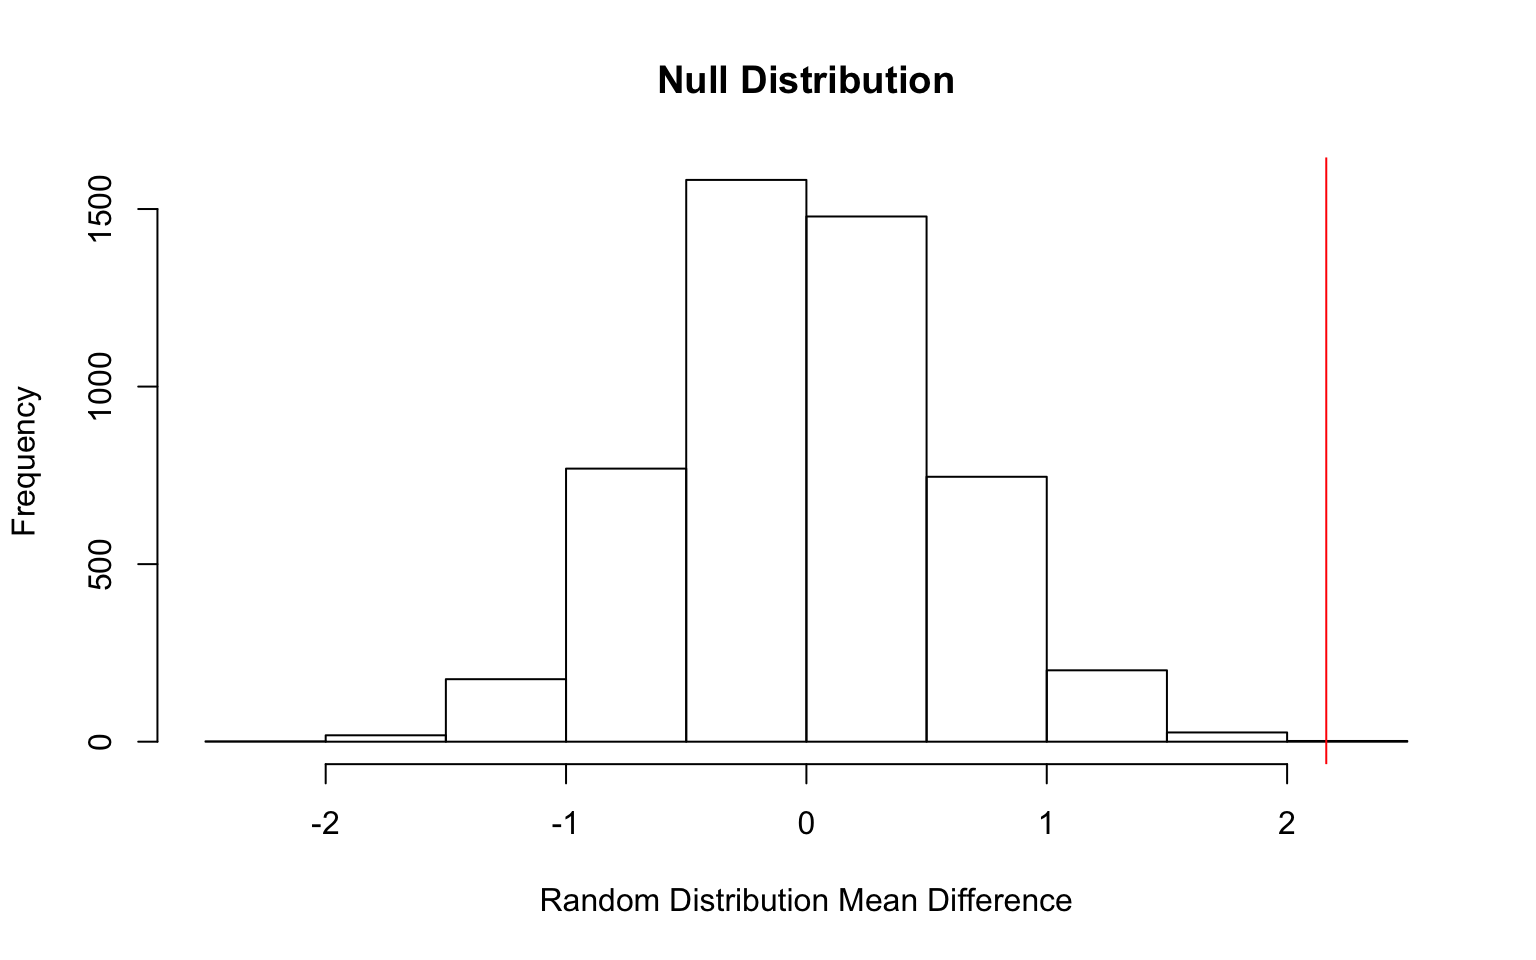
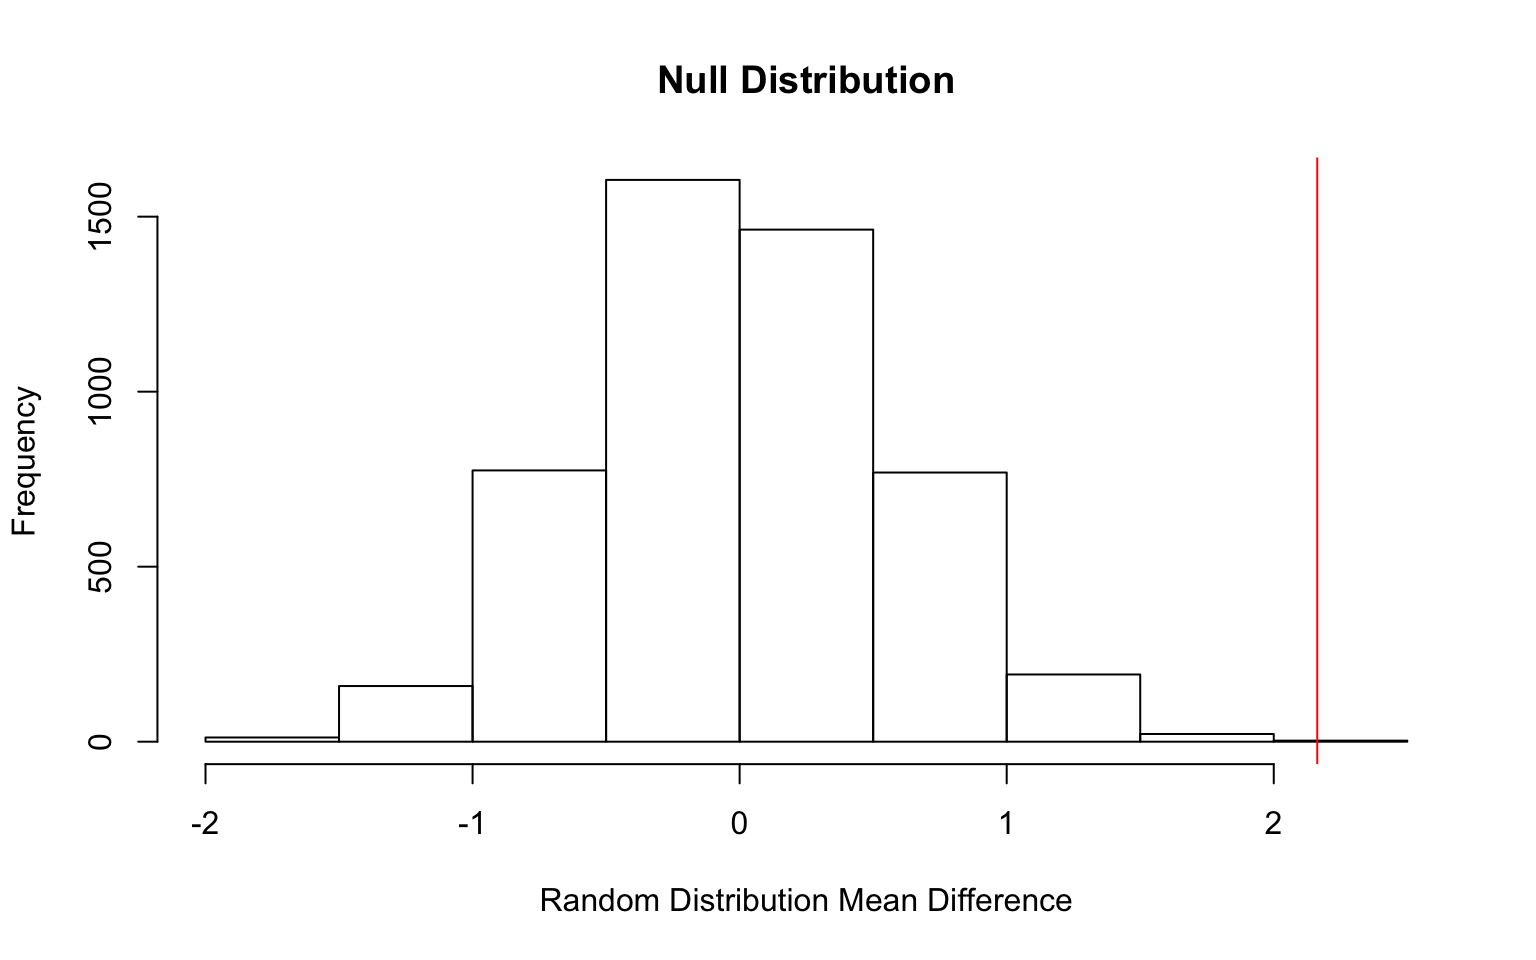
changed dates

diff --git a/public/project2/index.html b/public/project2/index.html
@@ -61,7 +61,7 @@
         </div>
         <div class="blog-title">
           <h4>
-          January 1, 0001
+          November 26, 2019
             &nbsp;&nbsp;
             
           </h4>
@@ -138,7 +138,7 @@ CPS85%&gt;%group_by(union)%&gt;%summarize(means=mean(wage))%&gt;%summarize(`mean
 ##          &lt;dbl&gt;
 ## 1         2.16</code></pre>
 <pre class="r"><code>mean(randdist&gt;2.162897)*2</code></pre>
-<pre><code>## [1] 0</code></pre>
+<pre><code>## [1] 4e-04</code></pre>
 <pre class="r"><code>hist(randdist, main = &quot;Null Distribution&quot;, xlab=&quot;Random Distribution Mean Difference&quot;); abline(v=2.162897, col=&quot;red&quot;)</code></pre>
 <p><img src="/Project2_files/figure-html/unnamed-chunk-2-1.png" width="768" style="display: block; margin: auto;" /></p>
 </div>
@@ -266,14 +266,14 @@ summary(mainfit) </code></pre>
 sampdist%&gt;%t%&gt;%as.data.frame%&gt;%summarise_all(sd) </code></pre>
 <pre><code>## (Intercept) experc sectorconst sectormanag sectormanuf
 sectorother sectorprof sectorsales
-## 1 0.2680306 0.02190799 0.7488399 1.077377 0.5773624
-0.6760003 0.6303497 0.6726547
+## 1 0.2669633 0.02165198 0.7543998 1.07663 0.5577508
+0.6643694 0.6307602 0.6793642
 ## sectorservice experc:sectorconst experc:sectormanag
 experc:sectormanuf experc:sectorother
-## 1 0.5130373 0.0627513 0.1107962 0.03882898 0.05706845
+## 1 0.5035843 0.0627671 0.1122371 0.03781907 0.05657452
 ## experc:sectorprof experc:sectorsales
 experc:sectorservice
-## 1 0.06393807 0.05678183 0.0349463</code></pre>
+## 1 0.06245956 0.05594304 0.0346736</code></pre>
 </div>
 <div id="logistic-regression-models" class="section level1">
 <h1>Logistic Regression Models</h1>

diff --git a/content/Project2.html b/content/Project2.html
@@ -1,7 +1,7 @@
 ---
 title: 'Modeling, Testing, and Predicting'
 author: "Brenna Briles"
-date: "11/26/2019"
+date: "2019-11-26"
 output:
   html_document: default
   pdf_document: default
@@ -75,7 +75,7 @@ CPS85%&gt;%group_by(union)%&gt;%summarize(means=mean(wage))%&gt;%summarize(`mean
 ##          &lt;dbl&gt;
 ## 1         2.16</code></pre>
 <pre class="r"><code>mean(randdist&gt;2.162897)*2</code></pre>
-<pre><code>## [1] 0</code></pre>
+<pre><code>## [1] 4e-04</code></pre>
 <pre class="r"><code>hist(randdist, main = &quot;Null Distribution&quot;, xlab=&quot;Random Distribution Mean Difference&quot;); abline(v=2.162897, col=&quot;red&quot;)</code></pre>
 <p><img src="/Project2_files/figure-html/unnamed-chunk-2-1.png" width="768" style="display: block; margin: auto;" /></p>
 </div>
@@ -203,14 +203,14 @@ summary(mainfit) </code></pre>
 sampdist%&gt;%t%&gt;%as.data.frame%&gt;%summarise_all(sd) </code></pre>
 <pre><code>## (Intercept) experc sectorconst sectormanag sectormanuf
 sectorother sectorprof sectorsales
-## 1 0.2680306 0.02190799 0.7488399 1.077377 0.5773624
-0.6760003 0.6303497 0.6726547
+## 1 0.2669633 0.02165198 0.7543998 1.07663 0.5577508
+0.6643694 0.6307602 0.6793642
 ## sectorservice experc:sectorconst experc:sectormanag
 experc:sectormanuf experc:sectorother
-## 1 0.5130373 0.0627513 0.1107962 0.03882898 0.05706845
+## 1 0.5035843 0.0627671 0.1122371 0.03781907 0.05657452
 ## experc:sectorprof experc:sectorsales
 experc:sectorservice
-## 1 0.06393807 0.05678183 0.0349463</code></pre>
+## 1 0.06245956 0.05594304 0.0346736</code></pre>
 </div>
 <div id="logistic-regression-models" class="section level1">
 <h1>Logistic Regression Models</h1>

diff --git a/public/project1/index.html b/public/project1/index.html
@@ -61,7 +61,7 @@
         </div>
         <div class="blog-title">
           <h4>
-          January 1, 0001
+          October 20, 2019
             &nbsp;&nbsp;
             
           </h4>

diff --git a/content/Project1.html b/content/Project1.html
@@ -1,7 +1,7 @@
 ---
 title: 'Data Wrangling and Exploration'
 author: "Brenna Briles"
-date: "10/20/2019"
+date: "2019-10-20"
 output:
   html_document: default
   pdf_document: default
